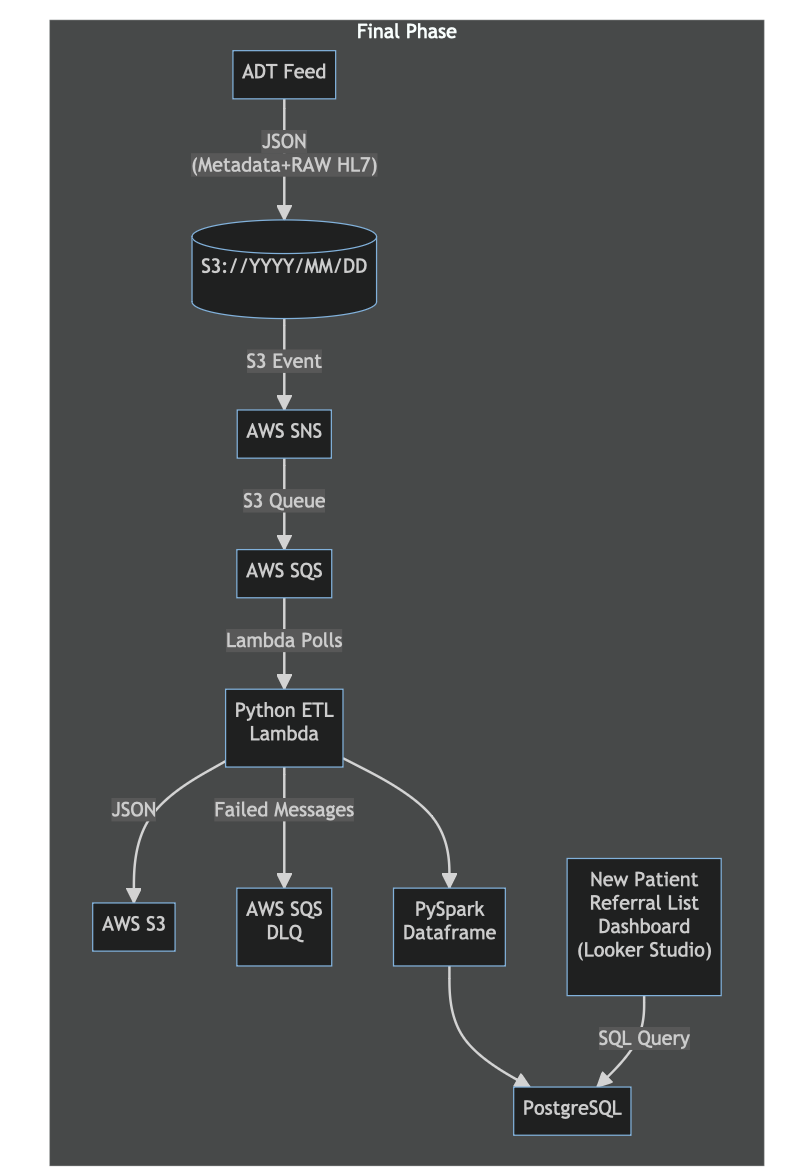
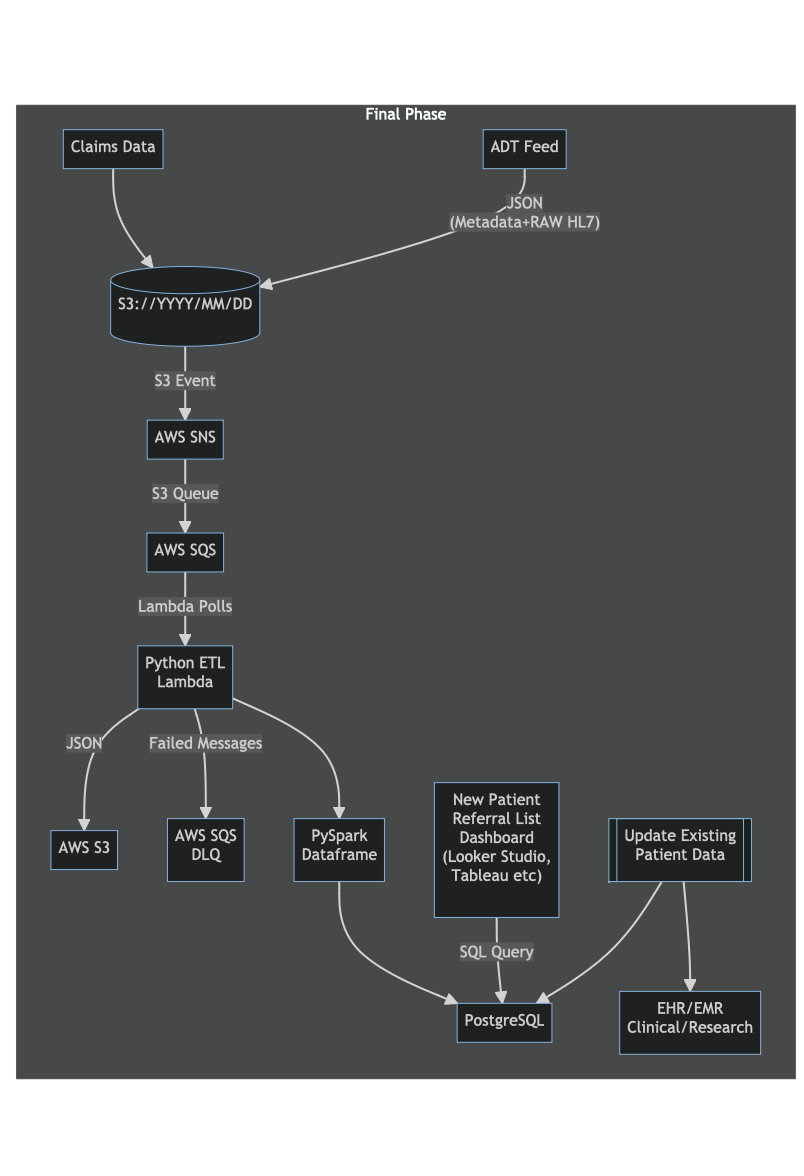
Cleaned up workflow

diff --git a/s3_hl7_json_to_postgres_etl/final-phase.md b/s3_hl7_json_to_postgres_etl/final-phase.md
@@ -1,6 +1,7 @@
 ```mermaid
 flowchart LR
     subgraph "Final Phase"
+    B["Claims Data"] --> id2
     A["ADT Feed"] -- "JSON
     (Metadata+RAW HL7)" --> id2[(S3://YYYY/MM/DD)];
     id2 -- S3 Event --> sns["AWS SNS"]
@@ -16,6 +17,11 @@ flowchart LR
     L["New Patient 
     Referral List
     Dashboard
-    (Looker Studio)"] -- SQL Query --> G
+    (Looker Studio, 
+    Tableau etc)"] -- SQL Query --> G
+    H[["Update Existing
+    Patient Data"]] --> I["EHR/EMR
+    Clinical/Research"]
+    H --> G
     end
 ```
